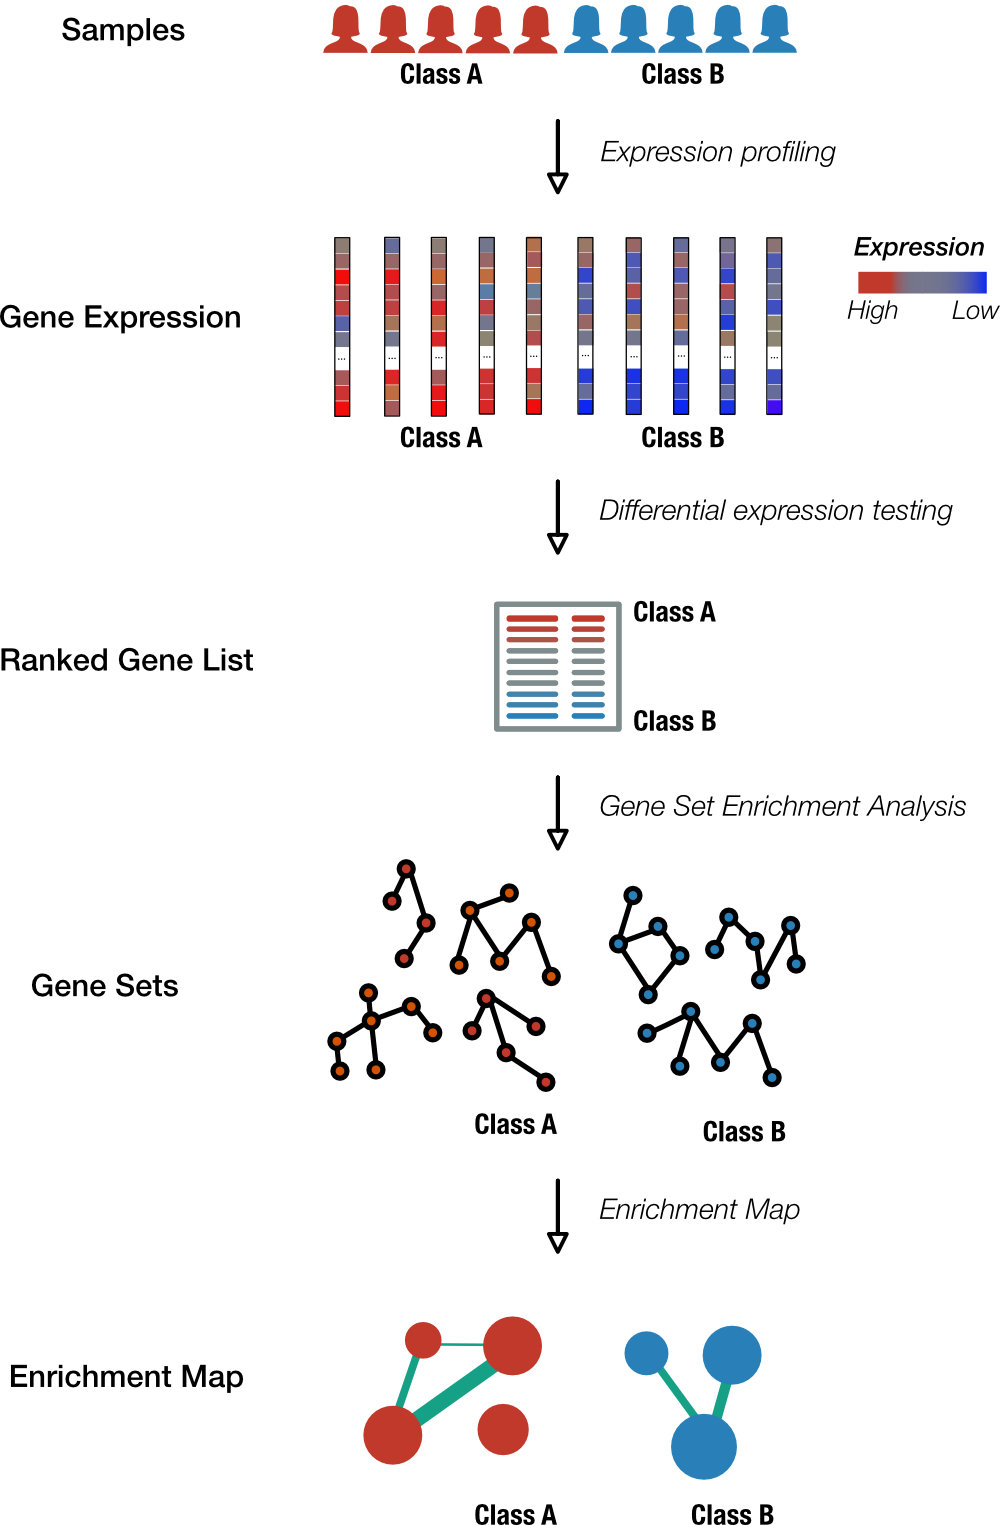
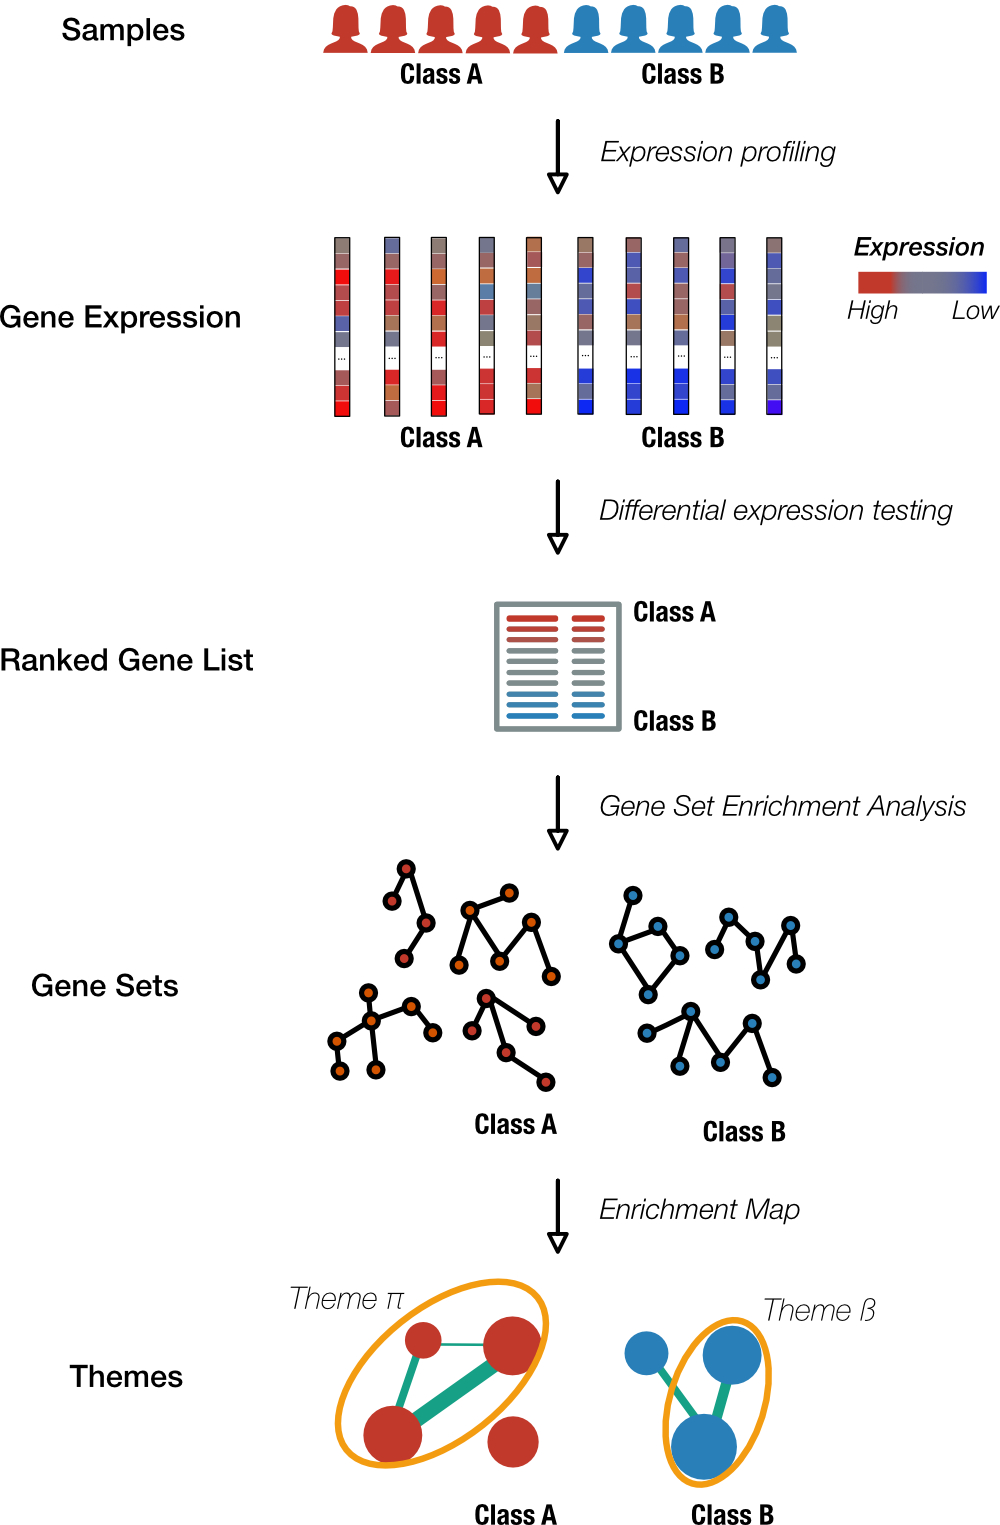
pass 2 on visualize

diff --git a/_workflows/pathway_enrichment/visualize.md b/_workflows/pathway_enrichment/visualize.md
@@ -36,27 +36,27 @@ gists:
 
 ## <a href="#goals" name="goals">I. Goals</a>
 
-In this section we present the Enrichment Map which visually organizes gene sets. They are ideal for dealing with lists of gene sets that emerge from enrichment analyses. By then end of this discussion you should:
+We describe Enrichment Map, a tool that organizes partially redundant gene sets towards the goal of distilling fewer, but broader themes. By then end of this discussion you should:
 
-1. Understand when and how an Enrichment Map can be helpful
+1. Understand how an Enrichment Map can be helpful
 2. Learn how to create and tune an Enrichment Map
-3. Be able to generate a figure describing enrichment results
+3. Be able to generate a map describing overarching themes culled from enrichment analyses
 
 ## <a href="#background" name="background">II. Background</a>
 
-Enrichment Map was developed by Merico *et al.* (Merico 2010) to aid in the  interpretation of gene sets emerging *en masse* from enrichment analyses. In particular, the growing number and size of gene sets along with the amount of detailed annotation is reflected in the results of enrichment analyses. Even using very stringent criteria, it is not uncommon to derive hundred of pathways which can pose problems from the standpoint of interpretability. To see the value of Enrichment Map, let us consider the analysis of differential expression in TCGA-OV subtypes.
+The Enrichment Map was originally described by Merico *et al.* (Merico 2010) as an aid in the  interpretation of gene sets emerging *en masse* from enrichment analyses. The motivation for this tool is the growing number of gene sets and gene annotation detail being made available, which leads to larger collections of gene sets emerging from enrichment analyses. Even with more stringent criteria, it is not uncommon for analyses to generate hundreds of pathways. All of this presents an obstacle from the standpoint of interpretability. To see the value of Enrichment Map, let us consider a concrete example of analyzing changes in gene expression in TCGA-OV subtypes.
 
-### Problem: A long list of pathways
+### A long list of pathways
 
-Our pathway enrichment workflow described how to source RNA sequencing (RNA-seq) data for high grade serous ovarian cancer (HGS-OvCa) from patient samples (Figure 1). The HGS-OvCa are divided into four expression subtypes (i.e. classes or phenotypes) including 'mesechymal' and 'immunoreactive'.
+Previously, we described how to source mRNA expression data for high grade serous ovarian cancer (HGS-OvCa) from patient samples (Figure 1). The HGS-OvCa are divided into four expression subtypes (i.e. classes) including 'mesechymal' and 'immunoreactive'.
 
 ![image]({{ site.baseurl }}/{{ site.media_root }}{{ page.id }}/{{ page.figures.figure_1 }}){: .img-responsive.short }
 
 <div class="figure-legend well well-lg text-justify">
-  <strong>Figure 1. Path from gene expression and gene sets to an Enrichment Map.</strong> A pair-wise comparison of gene expression between two classes of subjects is described. Note that the notion of gene expression change and gene set enrichement is relative to the other class. For an Enrichment Map, nodes represent gene sets and edges overlap in genes. The size and color of nodes corresponds to the number of genes and the class in which that set demonstrated enrichment. Likewise, the number of shared genes is indicated by edge thickness.
+  <strong>Figure 1. Path from sample comparison to Enrichment Map themes.</strong> Depicted is a pair-wise comparison between two classes. Sourcing and processing gene expression data for two classes has been described previously in this workflow. An enrichment analyis can generate gene sets altered in each class. The Enrichment Map summarizes this data in which nodes represent gene sets and edges overlap in genes. The size and color of nodes corresponds to the number of genes and the class in which that set demonstrated enrichment. Likewise, the number of shared genes is indicated by edge thickness. Enrichment Map is a basis upon which similar gene sets can be grouped (ovals) and annotated with overarching 'themes'.
 </div>
 
-Subsequently, expression data was used to derive a measure (P-value) of differential expression between subtypes. From this, genes were ranked according to a rank metric. In our particular case, those at the 'top' of the list are up-regulated in 'mesenchymal' samples and those at the 'bottom' are up-regulated in 'immunoreactive' samples (Table 1).
+Subsequently, expression data was used to derive a measure of differential expression between subtypes (i.e. P-value). From this, a rank metric was calculated to order genes: Those highest ranked are up-regulated in 'mesenchymal' samples and those lowest ranked are up-regulated in 'immunoreactive' samples (Table 1).
 
 **Table 1. Ranked gene list**
 
@@ -69,7 +69,7 @@ Subsequently, expression data was used to derive a measure (P-value) of differen
 |   11972 | TAP1    | -18.75886 |
 
 
-Rather than analyze a list of over 10 000 genes one at a time for genes that peak our interest or those with the largest magnitude of change we argued that more robust, less arbitrary methods were needed. To this end we used [Gene Set Enrichment Analysis](http://software.broadinstitute.org/) to identify gene sets  enriched within our list. In particular, we used GSEA to identify candidate gene sets enriched in the genes up-regulated in 'mesenchymal' samples and like-wise those categorized as 'immunoreactive'.
+Rather than analyze a list of over 10 000 genes one at a time, we argued that more robust, less arbitrary methods were required. To this end we used [Gene Set Enrichment Analysis](http://software.broadinstitute.org/) to identify gene sets  enriched within our list. In particular, we used GSEA to identify candidate gene sets enriched in the genes up-regulated in 'mesenchymal' samples and like-wise those categorized as 'immunoreactive'. Using this approach we identified over 2 500 gene sets enriched in the 'mesenchymal' subtype (Table 2) and over 1 900 in 'immunoreactive' samples.
 
 **Table 2. GSEA report for 'Mesenchymal' class**
 
@@ -81,34 +81,36 @@ Rather than analyze a list of over 10 000 genes one at a time for genes that pea
 | ...  | ... | ...  | ...  | ...  |
 | 2570 | NONSENSE MEDIATED DECAY (NMD) | 110  | 0.09057227 | 0.2507572 |
 
- Using this approach we identified over 2 500 gene sets enriched in the 'mesenchymal' subtype (Table 2) and over 1 900 in 'immunoreactive' samples. However, the number of gene sets is on the same order of magnitude as our original gene list. Applying more stringent significance criteria ($$\text{p-value} \leq 0.01$$) would reduce this total number to about a 1 000. Have we simply kicked the can and traded a long list of genes for a lengthy list of gene sets?
+Notice that the number of gene sets (~4 500) is of the same order as our original gene list (~11 000). Applying more stringent significance criteria ($$\text{p-value} \leq 0.01$$) would only reduce this total number to about a 1 000. Have we simply kicked the can and traded a long list of genes for a lengthy list of gene sets?
 
-### Solution: Data reduction
+### Data reduction
 
-Ideally, we want a simple way to reduce the size or 'dimensionality' of the output from enrichment analyses while retaining, to the best of our ability, the amount of meaningful *information*. A major issue that has accompanied the rise in gene set availability and gene annotation is increased *redundancy*.
+Ideally, we want a simple way to reduce the size or 'dimensionality' of the output from enrichment analyses while retaining, to the best of our ability, the amount of meaningful *information*. To this end, many approaches have set their sights on reducing the amount of *redundancy* amongst gene sets.
 
-#### Hierachical gene sets
+#### Hierachical
 
-Many enrichment anlyses use the [Gene Ontology](http://geneontology.org/) which is organized hierarchically. In this case, one strategy to reduce redundancy is to merge gene sets that are children of a parent cluster with broader scope. An alternative approach is to modify the way in which statistical tests applied. For example,  *Ontologizer* (Bauer 2008) uses a 'parent-child' modification of [Fisher's Exact]({{site.baseurl}}/primers/functional_analysis/fishers_exact_test/) test in which enrichment is determined using the parent gene set as the sample space rather than the entire list of genes.
+Many enrichment anlyses use the [Gene Ontology](http://geneontology.org/) (Ashburner 2000) which is hierarchically organized. In this case, redundancy can be reduced by merging gene sets that are children of a parent cluster with broader scope. An alternative approach is to modify the way in which statistical tests applied. For example,  *Ontologizer* (Bauer 2008) uses a 'parent-child' modification of [Fisher's Exact]({{site.baseurl}}/primers/functional_analysis/fishers_exact_test/) test in which enrichment is determined using the parent gene set as the sample space rather than the entire list of genes.
 
-Ontologizer and similar methods like it generally rely on variations of Fisher's Exact test to test for enrichment. Moreover, these approach do not apply in the absence of a clearly defined hierarchy, for example, transcriptional regulator target genes. What we desire is a versatile method able to manage non-hierarchical gene sets that emerge from analysis methods, regarldless of nature of the underlying enrichment test used (Khatri 2012).
+For the most part, Ontologizer and other similar tools rely on variations of Fisher's Exact test to test for enrichment. Importantly, these approach do not apply to gene sets without a  clearly defined hierarchy, for example, transcriptional regulator target genes. What we desire is a versatile method able to manage non-hierarchical gene sets that emerge from analysis methods, regarldless of nature of the underlying enrichment test used (Khatri 2012).
 
 ### Enrichment Map
 
-Enrichment Map is a visualization analysis tool that organizes gene sets into an information rich similarity network (Figure 1). Gene sets are represented as nodes where the number of genes correlates with size (radius). Edges between nodes represent shared genes, where the amount of overlap is represented by thickness. Finally, Enrichment Map uses node color to distinguish gene sets enriched in different sample classes.
+Enrichment Map is a visualization analysis tool that organizes gene sets into an information rich similarity network (Figure 1). The true power of Enrichment Map is that it can represents a basis upon which to reduce dimensionality by grouping similar gene sets; These clusters can then be annotated with an overarching 'theme' that is representative of the group.
+
+Gene sets are represented as nodes where the number of genes correlates with size. Edges between nodes represent shared genes, where the amount of overlap is represented by thickness. Finally, Enrichment Map uses node color to contrast gene sets enriched in different classes.
 
 The approach is modular in that it is compatible with any statistical test or gene set source. Enrichment Map shines when dealing with a collection of gene sets with a large degree of redundancy.
 
-Figure 2 provides a preview of the [Enrichment Map app](http://apps.cytoscape.org/apps/enrichmentmap) in the graph anaysis software [Cytoscape](http://www.cytoscape.org/).
+Figure 2 provides a tour of [Enrichment Map](http://apps.cytoscape.org/apps/enrichmentmap) in the graph anaysis software [Cytoscape](http://www.cytoscape.org/).
 
 ![image]({{ site.baseurl }}/{{ site.media_root }}{{ page.id }}/{{ page.figures.figure_2 }}){: .img-responsive }
 <div class="figure-legend well well-lg text-justify">
-  <strong>Figure 2. Tour of the Enrichment Map app.</strong> (A) The Enrichment Map is provided as an extension in Cytoscape. (B) 'User Input' panel where data files are loaded. (C) 'Parameters' panel where the users can define the initial stringency for displaying nodes (false discovery rate for gene set enrichment) and edges (minimum amount of overlap). (D) 'Table Panel' showing the underlying expression data for any particular gene set. (E) The main panel displays the interactive similarity network. (F) 'Results Panel' where parameters can be fine-tuned after map rendering.
+  <strong>Figure 2. Tour of the Enrichment Map app.</strong> (A) The Enrichment Map app is accessed in Cytoscape. (B) 'User Input' panel where user data files describing the enrichment analysis results and raw gene expression data are loaded. (C) 'Parameters' panel where the users can define the initial stringency for displaying nodes (false discovery rate for gene set enrichment) and edges (minimum amount of overlap). (D) 'Table Panel' tabulating gene set details and underlying expression data for any particular gene set. (E) The main panel displays the interactive similarity network. (F) 'Results Panel' where initial parameter settings can be fine-tuned.
 </div>
 
 It should be immediately apparent from Figure 2 the the Enrichment Map app provides several helpful features including
 
-  1. Integration of raw data underlying gene sets
+  1. Integration of raw data with gene sets in a single, interactive interface
   2. Clustered layout representing groups of similar gene sets
   3. Color indicates which class each gene sets is enriched in
 
@@ -116,7 +118,7 @@ In the upcoming sections, we will describe in detail how to generate an Enrichme
 
 ## <a href="#practical" name="practical">III. Practical</a>
 
-This section describes how to use the Enrichment Map software to organize the gene sets emerging from our enrichment analysis. Figure 3 depicts the five elements involved setting up the software and we elaborate upon each below.
+Figure 3 depicts the five elements involved setting up the Enrichment Map and we elaborate upon each below.
 
 ![image]({{ site.baseurl }}/{{ site.media_root }}{{ page.id }}/{{ page.figures.figure_3 }}){: .img-responsive.slim }
 <div class="figure-legend well well-lg text-justify">
@@ -174,7 +176,7 @@ Users
 
 #### Cytoscape
 
-[Cytoscape](http://www.cytoscape.org/){:target="_blank"} is an indispensable tool for network  visualization and analysis. The desktop software comes as a base installation and additional capabilities are added in the form of a large ecosystem of ['apps'](http://apps.cytoscape.org/){:target="_blank"}. In this section, we will learn to organize our enriched gene sets using the Enrichment Map app.
+[Cytoscape](http://www.cytoscape.org/){:target="_blank"} is an indispensable tool for network  visualization and analysis. The desktop software comes as a base installation and additional capabilities are added in the form of a large ecosystem of ['apps'](http://apps.cytoscape.org/){:target="_blank"}. In this section, we will learn to organize our enriched gene sets using the Enrichment Map along with several other helper apps to cluter and annotate similar groups of gene sets.
 
 Follow the instructions on the Cytoscape site to [download and install](http://www.cytoscape.org/download.php){:target="_blank"} the desktop software for your specific platform. The most recent versions of Cytoscape require Java version 8.
 
@@ -340,7 +342,7 @@ Here we will set up the initial configuration through the 'Parameters' panel (Fi
 ![image]({{ site.baseurl }}/{{ site.media_root }}{{ page.id }}/{{ page.figures.figure_7 }}){: .img-responsive.shorter }
 
 <div class="figure-legend well well-lg text-justify">
-  <strong>Figure 8. Enrichment Map settings.</strong> The 'Phenotype' labels must match exactly your classes defined in the phenotypes file (.cls). The 'FDR Q-value Cutoff' defines the maximum threshold for displaying including a gene set. The 'Similarity Cutoff' defines a minimum threshold for displaying an edge between gene sets.
+  <strong>Figure 7. Enrichment Map settings.</strong> The 'Phenotype' labels must match exactly your classes defined in the phenotypes file (.cls). The 'FDR Q-value Cutoff' defines the maximum threshold for displaying including a gene set. The 'Similarity Cutoff' defines a minimum threshold for displaying an edge between gene sets.
 </div>
 
 1. Phenotypes
@@ -371,7 +373,7 @@ Here we will set up the initial configuration through the 'Parameters' panel (Fi
 
 Click the 'Build' button in the Control Panel tab (Figure 7). You should see a progress indicator followed by an Enrichment Map (Figure 8).
 
-> See the <a href="http://wiki.cytoscape.org/Cytoscape_3/UserManual">Cytoscape 3 User Manual</a> for a detailed description of the functionality
+> See the <a href="http://wiki.cytoscape.org/Cytoscape_3/UserManual" target="_blank">Cytoscape 3 User Manual</a> for a detailed description of the functionality
 
 
 - {: .aside } #### Navigation
@@ -448,14 +450,14 @@ We will higlight a few aspects of the 'Table Panel' (Figure 9). This panel house
 
 ### A. Label clusters of gene sets
 
-Clusters within the Enrichment Map represent similar biological processes and themes. In order to better summarize the Enrichment map we want to be able to annotate each of these clusters with the main general theme associated with it. To do this we use the [AutoAnnotate](http://apps.cytoscape.org/apps/autoannotate) app to help us summarize the network and its themes. AutoAnnotate first clusters the network and then uses WordCloud to calculate the most frequent words present in each cluster node labels in efforts to highlight commonalities between the nodes in the cluster.
+Clusters within the Enrichment Map represent similar biological processes and themes. In order to better summarize the Enrichment map we want to be able to annotate each of these clusters with the main general theme associated with it. To do this we use the [AutoAnnotate](http://apps.cytoscape.org/apps/autoannotate){:target="_blank"} app to help us summarize the network and its themes. AutoAnnotate first clusters the network and then uses [WordCloud](http://apps.cytoscape.org/apps/wordcloud){:target="_blank"} to calculate the most frequent words present in each cluster node labels in efforts to highlight commonalities between the nodes in the cluster.
 
 #### Requirements
 
 - Cytoscape apps
-  - [ClusterMaker2](http://apps.cytoscape.org/apps/clustermaker2): version 0.9.5
-  - [WordCloud](http://apps.cytoscape.org/apps/wordcloud): version 3.1.0
-  - [AutoAnnotate](http://apps.cytoscape.org/apps/autoannotate): version 1.1.0
+  - [ClusterMaker2](http://apps.cytoscape.org/apps/clustermaker2){:target="_blank"}: version 0.9.5
+  - [WordCloud](http://apps.cytoscape.org/apps/wordcloud){:target="_blank"}: version 3.1.0
+  - [AutoAnnotate](http://apps.cytoscape.org/apps/autoannotate){:target="_blank"}: version 1.1.0
 
 #### 1. Group similar classes (subtypes)
 
@@ -533,4 +535,4 @@ The resulting network can look a bit sparse. Let's fine tune this by bringing th
 <hr/>
 
 ## <a href="#references" name="references">V. References</a>
-<!-- <div class="panel_group" data-inline="18511468,21085593,22383865"></div> -->
+<div class="panel_group" data-inline="10802651,18511468,21085593,22383865"></div>
